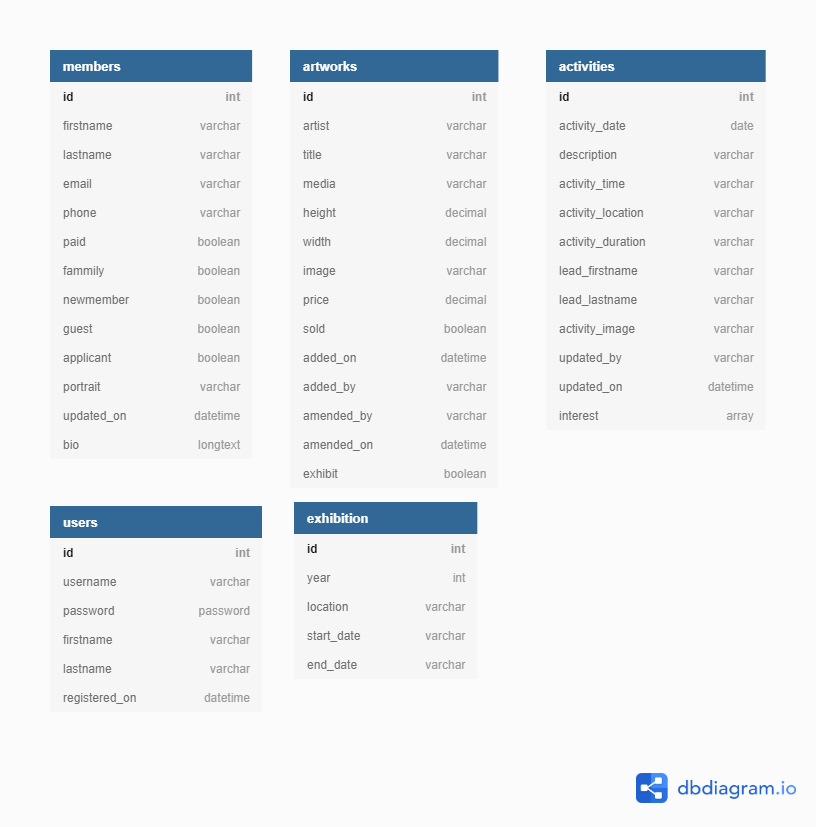
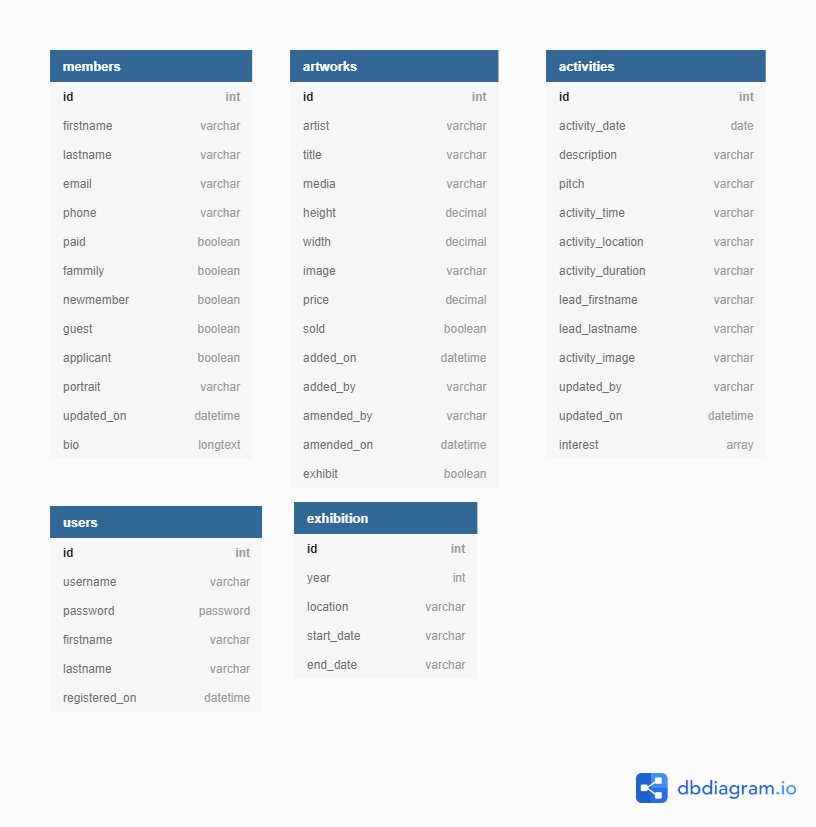
Added pitch column to activities collection and amended pages accordingly

diff --git a/templates/activities.html b/templates/activities.html
@@ -56,11 +56,26 @@
                             </span>
                         </div>
                     </div>
-                    <div class="card-details">
-                        How long? {{ activity.activity_duration }} <br>
-                        Where? {{ activity.activity_location }} <br>
-                        Led by: {{ activity.lead_firstname }} {{ activity.lead_lastname }}
-                    </div>    
+
+                            <div class="card-details hide-on-small-only">
+                                What is it about? {{ activity.pitch}} <br>
+                                How long? {{ activity.activity_duration }} <br>
+                                Where? {{ activity.activity_location }} <br>
+                                Led by: {{ activity.lead_firstname }} {{ activity.lead_lastname }}
+                            </div> 
+ 
+                </div>
+
+            </div>
+
+            <div class="row show-on-small hide-on-med-and-up">
+                <div class="col s12">
+                    <div class="card-content">
+                            What is it about? {{ activity.pitch}} <br>
+                            How long? {{ activity.activity_duration }} <br>
+                            Where? {{ activity.activity_location }} <br>
+                            Led by: {{ activity.lead_firstname }} {{ activity.lead_lastname }}
+                    </div> 
                 </div>
             </div>
 

diff --git a/templates/edit_activity.html b/templates/edit_activity.html
@@ -47,7 +47,27 @@
                         Briefly describe activity
                     </span> 
                     </div>
-                </div>    
+                </div>
+                <!---   Sales Pitch         -->
+                <div class="row">
+                    <div class="input-field col s12">
+                        <i class="prefix light-blue-text text-darken-4"></i>
+                        <input id="pitch" name="pitch"  
+                            type="text"
+                            minlength="10"
+                            placeholder="min 10 chars"
+                            onchange="act_desc()"
+                            value="{{ activity.pitch }}"
+                            class="validate" required />       
+                        <label for="pitch" class="inputlabel"
+                            title="Sell it to them!">
+                            Sales Pitch
+                        </label>
+                        <span class="helper-text" data-error="wrong" data-success="right">
+                            Sell it to them!
+                        </span> 
+                    </div>
+                </div>      
                 <!--    Activity Date       -->
                 <div class="row">
                     <div class="input-field col s12">

diff --git a/templates/edit_member.html b/templates/edit_member.html
@@ -155,14 +155,13 @@
         <div class="row">
             <div class="input-field col s12">       
                 <label for="bio" class="inputlabel">Biography</label>
-                <textarea class="form-control" placeholder="Biography"
+                <input class="form-control" placeholder="Biography"
+                    type="text"
                     name="bio" id="bio"
                     value="{{ member.bio }}"
-                    rows="4" cols="50"
                     minlength="10" required
                     onchange="mem_bio()"
-                    data-validation-required-message="Please enter a brief description of yourself.">
-                </textarea>
+                    data-validation-required-message="Please enter a brief description of yourself."/>
                 <p class="help-block text-danger"></p>
             </div>
         </div>        

diff --git a/static/js/script.js b/static/js/script.js
@@ -122,6 +122,18 @@ function act_desc() {
     }
 }
 
+function act_pitch() {
+    var x = document.getElementById("pitch").value;
+    if ( x.length < 10 ) {
+        document.getElementById("pitch").style.backgroundColor = "red";
+        document.getElementById("pitch").focus();
+    } else {
+        document.getElementById("pitch").style.backgroundColor = clubBlue;
+        document.getElementById("pitch").style.color = "black";
+        document.getElementById("pitch").style.fontWeight = "bold";
+    }
+}
+
 function act_dur() {
     var x = document.getElementById("activity_duration").value;
     var patHour = new RegExp(/hour/i);

diff --git a/club_admin.py b/club_admin.py
@@ -229,6 +229,7 @@ def add_activity():
             activity = {
                 "activity_date": iso_date,
                 "description": request.form.get("description"),
+                "pitch" : request.form.get("pitch"),
                 "activity_time": request.form.get("activity_time"),
                 "activity_duration": request.form.get("activity_duration"),
                 "activity_location": request.form.get("activity_location"),
@@ -272,6 +273,7 @@ def edit_activity(activity_id):
         submit = {
             "activity_date": iso_date,
             "description": request.form.get("description"),
+            "pitch": request.form.get("pitch"),
             "activity_time": request.form.get("activity_time"),
             "activity_duration": request.form.get("activity_duration"),
             "activity_location": request.form.get("activity_location"),
@@ -283,6 +285,7 @@ def edit_activity(activity_id):
         }
         mongo.db.activities.replace_one({"_id": ObjectId(activity_id)}, submit)
         flash("Activity Successfully Updated")
+        return redirect(url_for("activities"))
 
     activity = mongo.db.activities.find_one({"_id": ObjectId(activity_id)})
     return render_template("edit_activity.html",
